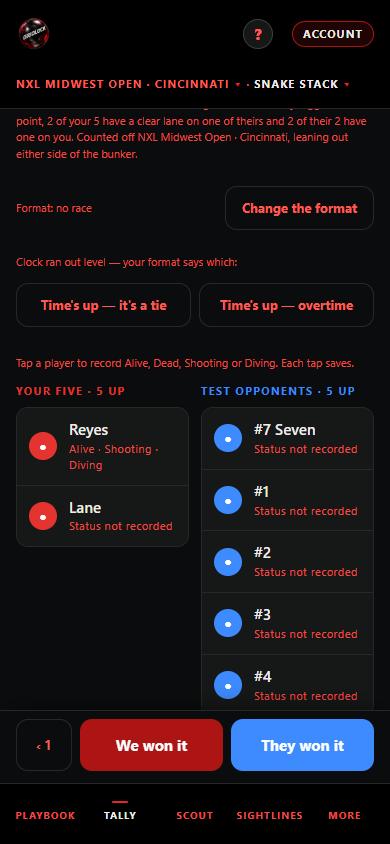
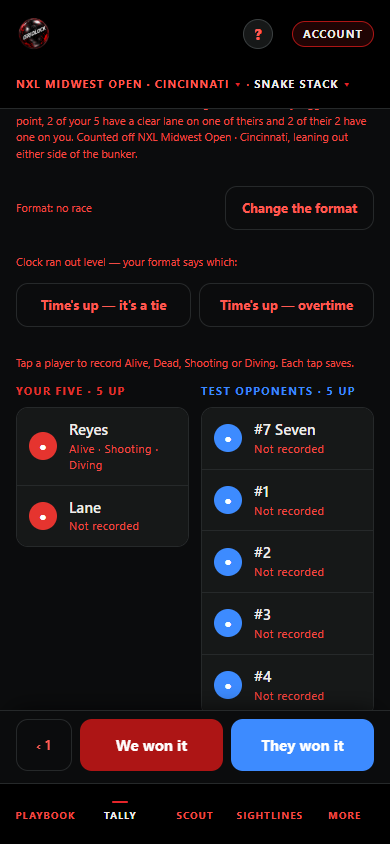
Keep unrecorded player status concise on compact lists

diff --git a/android/app/src/main/assets/public/index.html b/android/app/src/main/assets/public/index.html
@@ -10826,7 +10826,7 @@ function playerStatusText(side,player="",id=""){
   const rows=drawOnce("player-status|"+JSON.stringify([S.matchId,side,S.layoutKey]),()=>
     new Map(playerObservationRows(S.matchId,side,S.layoutKey).map(r=>[r.key,r])));
   const r=rows.get(playerObservationKey(sheetPoint(),player,id));
-  return [r?.alive===false ? "Dead" : r?.alive===true ? "Alive" : "Status not recorded",
+  return [r?.alive===false ? "Dead" : r?.alive===true ? "Alive" : "Not recorded",
     r?.shooting ? "Shooting" : "",r?.diving ? "Diving" : ""].filter(Boolean).join(" · ");
 }
 function playerShares(rows,total){
@@ -17942,7 +17942,7 @@ const HELP_Q = [
   ["How do I chart the break?", "On Tally, in two steps. 1 · Where they went: off the buzzer, tap the bunker each man broke to — one tap a man, yours and theirs by the half they land in. A second tap on a bunker puts a second man on it; ✕ in the list takes one off. 2 · What happened: each man you placed opens in turn — made it or shot, battling in, which way he was shooting, where he moved — and Save goes to the next. A point that ends before you have told them all keeps them: the list under the field says Point 3 · 2 still to tell, and one tap carries on. Their five placed on Tally are their five on Scout too."],
   ["I tapped the wrong player out.", "On Tally, tap his name to open Player details, then Alive. Quick log still takes a second tap on his name to put him back in. For a point you have already left, use Undo on his row in the log. Back a point also takes its result back."],
   ["Where are the player percentages?", "On Tally, open Point percentages for either team; on Scout, it is under Players this point. Each number shows its count, such as 3 of 5 · 60%. The team total uses this point’s starting players after penalties. In a player’s popup, Match percentages uses only that player’s logged points in this match. Alive and Dead show the last status recorded on each point. Missing observations stay unknown; Shooting and Diving can both apply."],
-  ["How do I see what happened to a player?", "Tally and Scout's Players this point show each player's recorded status, Shooting and Diving beside their name. Status not recorded means nobody has logged it yet. Tap the name or a row under the field to update it. Tap Alive or Dead for current status, and Shooting or Diving for what you saw. Each tap saves; Shooting and Diving can both be on. Tap either again to undo that observation. Next player stays on this point. More details keeps the bunker, breakout and out details. Current status never guesses a breakout result or a shot location. Close returns to the same screen."],
+  ["How do I see what happened to a player?", "Tally and Scout's Players this point show each player's recorded status, Shooting and Diving beside their name. Not recorded means nobody has logged the status yet. Tap the name or a row under the field to update it. Tap Alive or Dead for current status, and Shooting or Diving for what you saw. Each tap saves; Shooting and Diving can both be on. Tap either again to undo that observation. Next player stays on this point. More details keeps the bunker, breakout and out details. Current status never guesses a breakout result or a shot location. Close returns to the same screen."],
   ["We don't call it that.", "Anything the app names, you can rename. More, then Team: Bunker calls gives a bunker your word for it, and Break calls does the same for the twelve. The five jobs inside a call are named on Playbook — pick the call, then tap Job on the man's row. Your words then show on Playbook, on the point sheet, on Scout, on his card and everywhere else. It only changes the label — every call and every out you have logged is stored as the thing itself, so renaming re-labels the whole season at once and loses nothing."],
   ["We run a play the app doesn't have.", "Write it. On Playbook, tap + Yours under the field: name it, then tap the bunker each of your five plants on, in order. The app draws the runs, works out who leaves on the buzzer, and from then on it is one of your calls — Face, Shot, Go, Job, logging, self-scout, Cards and the Rep drill all work on it exactly like the built-in twelve. A play is the five bunkers, so it asks you to build it again at the next event, on that field."],
   ["Can my assistant coach log too?", "Yes, on his own phone. Matches, then This match: Send this sheet to another coach hands him that one match, and he sends his back the same way. Each loads it under Nexus, Load a copy, Merge, and a point both of you logged is kept once. Save a copy hands over the whole season instead."],

diff --git a/ios/App/App/public/index.html b/ios/App/App/public/index.html
@@ -10826,7 +10826,7 @@ function playerStatusText(side,player="",id=""){
   const rows=drawOnce("player-status|"+JSON.stringify([S.matchId,side,S.layoutKey]),()=>
     new Map(playerObservationRows(S.matchId,side,S.layoutKey).map(r=>[r.key,r])));
   const r=rows.get(playerObservationKey(sheetPoint(),player,id));
-  return [r?.alive===false ? "Dead" : r?.alive===true ? "Alive" : "Status not recorded",
+  return [r?.alive===false ? "Dead" : r?.alive===true ? "Alive" : "Not recorded",
     r?.shooting ? "Shooting" : "",r?.diving ? "Diving" : ""].filter(Boolean).join(" · ");
 }
 function playerShares(rows,total){
@@ -17942,7 +17942,7 @@ const HELP_Q = [
   ["How do I chart the break?", "On Tally, in two steps. 1 · Where they went: off the buzzer, tap the bunker each man broke to — one tap a man, yours and theirs by the half they land in. A second tap on a bunker puts a second man on it; ✕ in the list takes one off. 2 · What happened: each man you placed opens in turn — made it or shot, battling in, which way he was shooting, where he moved — and Save goes to the next. A point that ends before you have told them all keeps them: the list under the field says Point 3 · 2 still to tell, and one tap carries on. Their five placed on Tally are their five on Scout too."],
   ["I tapped the wrong player out.", "On Tally, tap his name to open Player details, then Alive. Quick log still takes a second tap on his name to put him back in. For a point you have already left, use Undo on his row in the log. Back a point also takes its result back."],
   ["Where are the player percentages?", "On Tally, open Point percentages for either team; on Scout, it is under Players this point. Each number shows its count, such as 3 of 5 · 60%. The team total uses this point’s starting players after penalties. In a player’s popup, Match percentages uses only that player’s logged points in this match. Alive and Dead show the last status recorded on each point. Missing observations stay unknown; Shooting and Diving can both apply."],
-  ["How do I see what happened to a player?", "Tally and Scout's Players this point show each player's recorded status, Shooting and Diving beside their name. Status not recorded means nobody has logged it yet. Tap the name or a row under the field to update it. Tap Alive or Dead for current status, and Shooting or Diving for what you saw. Each tap saves; Shooting and Diving can both be on. Tap either again to undo that observation. Next player stays on this point. More details keeps the bunker, breakout and out details. Current status never guesses a breakout result or a shot location. Close returns to the same screen."],
+  ["How do I see what happened to a player?", "Tally and Scout's Players this point show each player's recorded status, Shooting and Diving beside their name. Not recorded means nobody has logged the status yet. Tap the name or a row under the field to update it. Tap Alive or Dead for current status, and Shooting or Diving for what you saw. Each tap saves; Shooting and Diving can both be on. Tap either again to undo that observation. Next player stays on this point. More details keeps the bunker, breakout and out details. Current status never guesses a breakout result or a shot location. Close returns to the same screen."],
   ["We don't call it that.", "Anything the app names, you can rename. More, then Team: Bunker calls gives a bunker your word for it, and Break calls does the same for the twelve. The five jobs inside a call are named on Playbook — pick the call, then tap Job on the man's row. Your words then show on Playbook, on the point sheet, on Scout, on his card and everywhere else. It only changes the label — every call and every out you have logged is stored as the thing itself, so renaming re-labels the whole season at once and loses nothing."],
   ["We run a play the app doesn't have.", "Write it. On Playbook, tap + Yours under the field: name it, then tap the bunker each of your five plants on, in order. The app draws the runs, works out who leaves on the buzzer, and from then on it is one of your calls — Face, Shot, Go, Job, logging, self-scout, Cards and the Rep drill all work on it exactly like the built-in twelve. A play is the five bunkers, so it asks you to build it again at the next event, on that field."],
   ["Can my assistant coach log too?", "Yes, on his own phone. Matches, then This match: Send this sheet to another coach hands him that one match, and he sends his back the same way. Each loads it under Nexus, Load a copy, Merge, and a point both of you logged is kept once. Save a copy hands over the whole season instead."],

diff --git a/site/app.html b/site/app.html
@@ -11730,7 +11730,7 @@ function playerStatusText(side,player="",id=""){
   const rows=drawOnce("player-status|"+JSON.stringify([S.matchId,side,S.layoutKey]),()=>
     new Map(playerObservationRows(S.matchId,side,S.layoutKey).map(r=>[r.key,r])));
   const r=rows.get(playerObservationKey(sheetPoint(),player,id));
-  return [r?.alive===false ? "Dead" : r?.alive===true ? "Alive" : "Status not recorded",
+  return [r?.alive===false ? "Dead" : r?.alive===true ? "Alive" : "Not recorded",
     r?.shooting ? "Shooting" : "",r?.diving ? "Diving" : ""].filter(Boolean).join(" · ");
 }
 function playerShares(rows,total){
@@ -18846,7 +18846,7 @@ const HELP_Q = [
   ["How do I chart the break?", "On Tally, in two steps. 1 · Where they went: off the buzzer, tap the bunker each man broke to — one tap a man, yours and theirs by the half they land in. A second tap on a bunker puts a second man on it; ✕ in the list takes one off. 2 · What happened: each man you placed opens in turn — made it or shot, battling in, which way he was shooting, where he moved — and Save goes to the next. A point that ends before you have told them all keeps them: the list under the field says Point 3 · 2 still to tell, and one tap carries on. Their five placed on Tally are their five on Scout too."],
   ["I tapped the wrong player out.", "On Tally, tap his name to open Player details, then Alive. Quick log still takes a second tap on his name to put him back in. For a point you have already left, use Undo on his row in the log. Back a point also takes its result back."],
   ["Where are the player percentages?", "On Tally, open Point percentages for either team; on Scout, it is under Players this point. Each number shows its count, such as 3 of 5 · 60%. The team total uses this point’s starting players after penalties. In a player’s popup, Match percentages uses only that player’s logged points in this match. Alive and Dead show the last status recorded on each point. Missing observations stay unknown; Shooting and Diving can both apply."],
-  ["How do I see what happened to a player?", "Tally and Scout's Players this point show each player's recorded status, Shooting and Diving beside their name. Status not recorded means nobody has logged it yet. Tap the name or a row under the field to update it. Tap Alive or Dead for current status, and Shooting or Diving for what you saw. Each tap saves; Shooting and Diving can both be on. Tap either again to undo that observation. Next player stays on this point. More details keeps the bunker, breakout and out details. Current status never guesses a breakout result or a shot location. Close returns to the same screen."],
+  ["How do I see what happened to a player?", "Tally and Scout's Players this point show each player's recorded status, Shooting and Diving beside their name. Not recorded means nobody has logged the status yet. Tap the name or a row under the field to update it. Tap Alive or Dead for current status, and Shooting or Diving for what you saw. Each tap saves; Shooting and Diving can both be on. Tap either again to undo that observation. Next player stays on this point. More details keeps the bunker, breakout and out details. Current status never guesses a breakout result or a shot location. Close returns to the same screen."],
   ["We don't call it that.", "Anything the app names, you can rename. More, then Team: Bunker calls gives a bunker your word for it, and Break calls does the same for the twelve. The five jobs inside a call are named on Playbook — pick the call, then tap Job on the man's row. Your words then show on Playbook, on the point sheet, on Scout, on his card and everywhere else. It only changes the label — every call and every out you have logged is stored as the thing itself, so renaming re-labels the whole season at once and loses nothing."],
   ["We run a play the app doesn't have.", "Write it. On Playbook, tap + Yours under the field: name it, then tap the bunker each of your five plants on, in order. The app draws the runs, works out who leaves on the buzzer, and from then on it is one of your calls — Face, Shot, Go, Job, logging, self-scout, Cards and the Rep drill all work on it exactly like the built-in twelve. A play is the five bunkers, so it asks you to build it again at the next event, on that field."],
   ["Can my assistant coach log too?", "Yes, on his own phone. Matches, then This match: Send this sheet to another coach hands him that one match, and he sends his back the same way. Each loads it under Nexus, Load a copy, Merge, and a point both of you logged is kept once. Save a copy hands over the whole season instead."],

diff --git a/web/index.html b/web/index.html
@@ -10826,7 +10826,7 @@ function playerStatusText(side,player="",id=""){
   const rows=drawOnce("player-status|"+JSON.stringify([S.matchId,side,S.layoutKey]),()=>
     new Map(playerObservationRows(S.matchId,side,S.layoutKey).map(r=>[r.key,r])));
   const r=rows.get(playerObservationKey(sheetPoint(),player,id));
-  return [r?.alive===false ? "Dead" : r?.alive===true ? "Alive" : "Status not recorded",
+  return [r?.alive===false ? "Dead" : r?.alive===true ? "Alive" : "Not recorded",
     r?.shooting ? "Shooting" : "",r?.diving ? "Diving" : ""].filter(Boolean).join(" · ");
 }
 function playerShares(rows,total){
@@ -17942,7 +17942,7 @@ const HELP_Q = [
   ["How do I chart the break?", "On Tally, in two steps. 1 · Where they went: off the buzzer, tap the bunker each man broke to — one tap a man, yours and theirs by the half they land in. A second tap on a bunker puts a second man on it; ✕ in the list takes one off. 2 · What happened: each man you placed opens in turn — made it or shot, battling in, which way he was shooting, where he moved — and Save goes to the next. A point that ends before you have told them all keeps them: the list under the field says Point 3 · 2 still to tell, and one tap carries on. Their five placed on Tally are their five on Scout too."],
   ["I tapped the wrong player out.", "On Tally, tap his name to open Player details, then Alive. Quick log still takes a second tap on his name to put him back in. For a point you have already left, use Undo on his row in the log. Back a point also takes its result back."],
   ["Where are the player percentages?", "On Tally, open Point percentages for either team; on Scout, it is under Players this point. Each number shows its count, such as 3 of 5 · 60%. The team total uses this point’s starting players after penalties. In a player’s popup, Match percentages uses only that player’s logged points in this match. Alive and Dead show the last status recorded on each point. Missing observations stay unknown; Shooting and Diving can both apply."],
-  ["How do I see what happened to a player?", "Tally and Scout's Players this point show each player's recorded status, Shooting and Diving beside their name. Status not recorded means nobody has logged it yet. Tap the name or a row under the field to update it. Tap Alive or Dead for current status, and Shooting or Diving for what you saw. Each tap saves; Shooting and Diving can both be on. Tap either again to undo that observation. Next player stays on this point. More details keeps the bunker, breakout and out details. Current status never guesses a breakout result or a shot location. Close returns to the same screen."],
+  ["How do I see what happened to a player?", "Tally and Scout's Players this point show each player's recorded status, Shooting and Diving beside their name. Not recorded means nobody has logged the status yet. Tap the name or a row under the field to update it. Tap Alive or Dead for current status, and Shooting or Diving for what you saw. Each tap saves; Shooting and Diving can both be on. Tap either again to undo that observation. Next player stays on this point. More details keeps the bunker, breakout and out details. Current status never guesses a breakout result or a shot location. Close returns to the same screen."],
   ["We don't call it that.", "Anything the app names, you can rename. More, then Team: Bunker calls gives a bunker your word for it, and Break calls does the same for the twelve. The five jobs inside a call are named on Playbook — pick the call, then tap Job on the man's row. Your words then show on Playbook, on the point sheet, on Scout, on his card and everywhere else. It only changes the label — every call and every out you have logged is stored as the thing itself, so renaming re-labels the whole season at once and loses nothing."],
   ["We run a play the app doesn't have.", "Write it. On Playbook, tap + Yours under the field: name it, then tap the bunker each of your five plants on, in order. The app draws the runs, works out who leaves on the buzzer, and from then on it is one of your calls — Face, Shot, Go, Job, logging, self-scout, Cards and the Rep drill all work on it exactly like the built-in twelve. A play is the five bunkers, so it asks you to build it again at the next event, on that field."],
   ["Can my assistant coach log too?", "Yes, on his own phone. Matches, then This match: Send this sheet to another coach hands him that one match, and he sends his back the same way. Each loads it under Nexus, Load a copy, Merge, and a point both of you logged is kept once. Save a copy hands over the whole season instead."],

diff --git a/CLAUDE.md b/CLAUDE.md
@@ -1436,7 +1436,7 @@ so the four quick buttons stay in view. `test/player-percentages.cjs`.
 Tally's player and placed-player lists, and Scout's Players this point, show
 the recorded current status plus Shooting and Diving without opening the popup.
 They use the same scoped observations as percentages; no observation stays
-Status not recorded. The popup uses the newest matching check, never an older
+Not recorded. The popup uses the newest matching check, never an older
 imported row's choices. Cache these derived reads for one render only, never
 in the season or across edits. `test/player-overview.cjs`.
 
